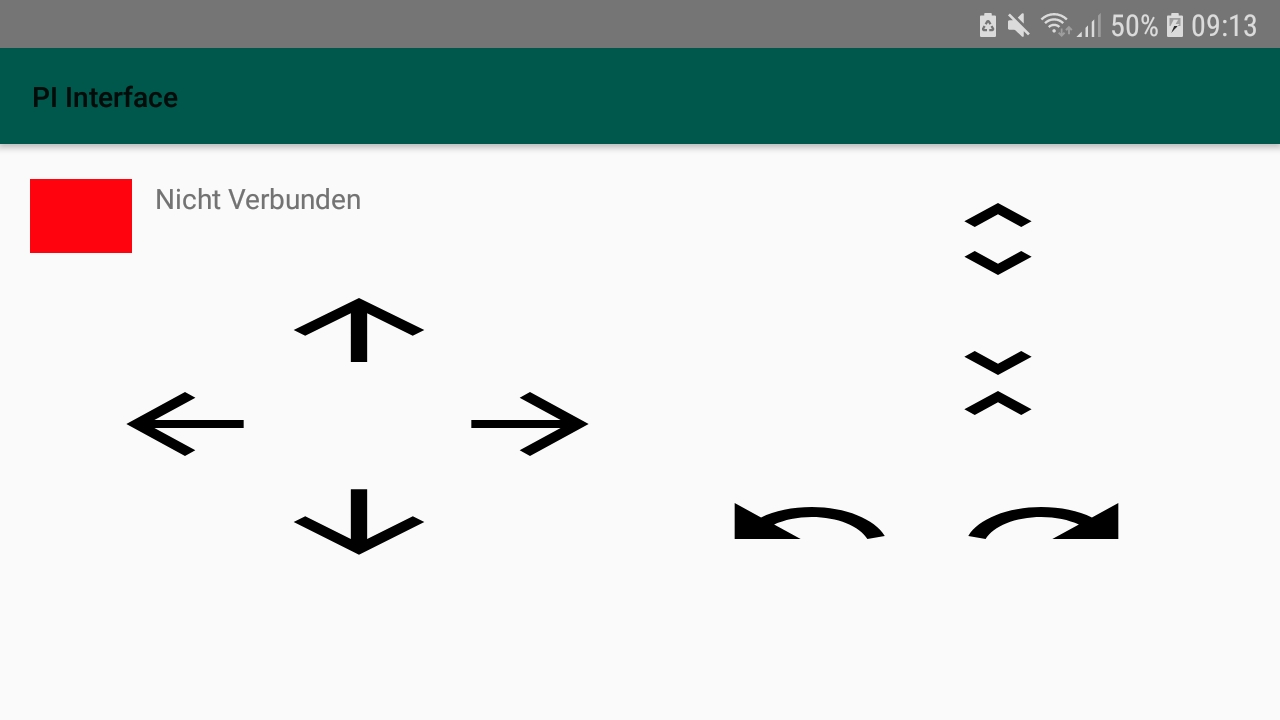
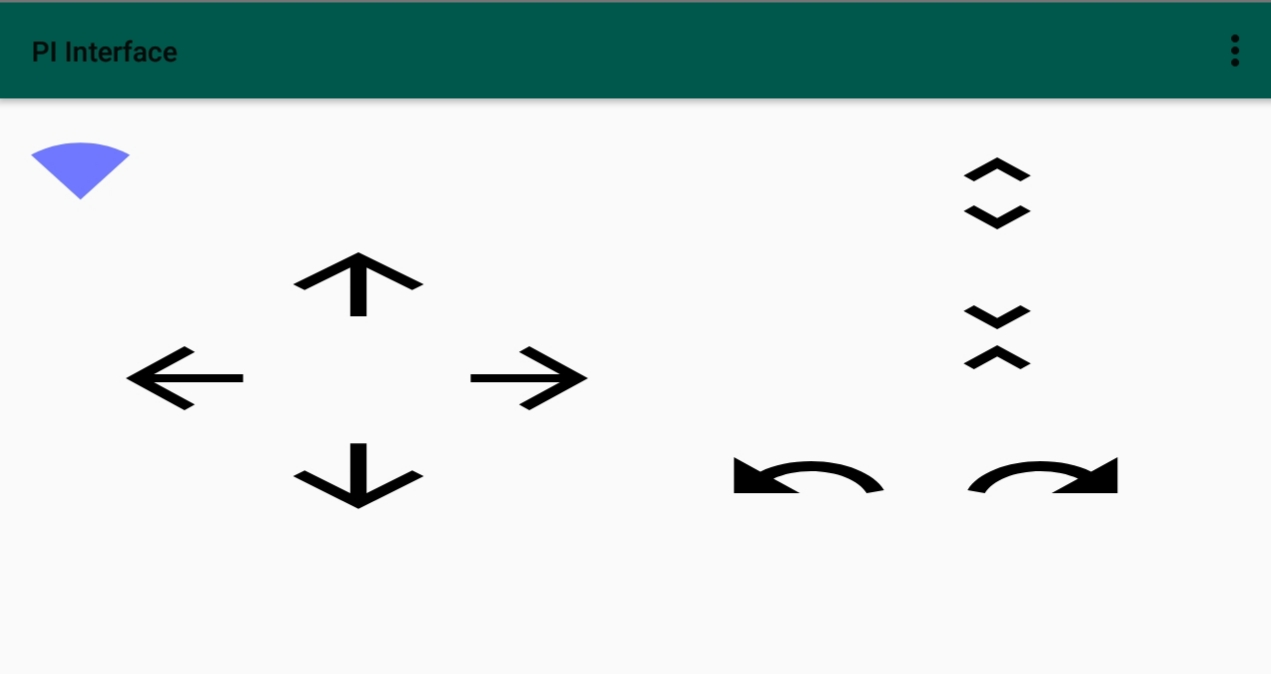
Gui Update
- Implementieren eines Wlan Image als Connection Status
- fixen des Leeren String -Bugs im Dialog Fragment

diff --git a/app/src/main/java/com/example/piinterface/MainActivity.java b/app/src/main/java/com/example/piinterface/MainActivity.java
@@ -6,6 +6,7 @@ import android.os.Bundle;
 import android.support.v7.app.AppCompatActivity;
 import android.view.Menu;
 import android.view.MenuInflater;
+import android.view.MenuItem;
 import android.view.View;
 import android.widget.ImageView;
 import android.widget.TextView;
@@ -39,9 +40,6 @@ public class MainActivity extends AppCompatActivity implements Settings_Dialog.S
     protected void onCreate(Bundle savedInstanceState) {
         super.onCreate(savedInstanceState);
         setContentView(R.layout.activity_main);
-        //ipadress = "192.168.178.40";
-        //portnumber = 5555;
-        connection = (TextView) findViewById(R.id.connection);
         connStat = (ImageView) findViewById(R.id.CONNSTST);
         toolbar = (android.support.v7.widget.Toolbar) findViewById(R.id.my_toolbar);
         setSupportActionBar(toolbar);
@@ -51,15 +49,17 @@ public class MainActivity extends AppCompatActivity implements Settings_Dialog.S
 
     @Override
     public boolean onCreateOptionsMenu(Menu menu) {
-       // MenuInflater inflater = getMenuInflater();
-        //inflater.inflate(R.menu.main_menu, menu);
+        MenuInflater inflater = getMenuInflater();
+        inflater.inflate(R.menu.main_menu, menu);
         return true;
     }
 
-    // Settings -> On Click Menu
-    public void Settings(View v){
+    @Override
+    public boolean onOptionsItemSelected(MenuItem item) {
         Settings_Dialog dialog = new Settings_Dialog();
         dialog.show(getSupportFragmentManager(), "My Dialog");
+
+        return super.onOptionsItemSelected(item);
     }
 //---------------------------------------------------------------------
 
@@ -67,8 +67,12 @@ public class MainActivity extends AppCompatActivity implements Settings_Dialog.S
     @Override
     public void applySettings(String ip, String port) {
     ipadress = ip;
-    portnumber = Integer.parseInt(port);
-
+    if (port == ""){
+        portnumber = 0;
+    }
+    else {
+        portnumber = Integer.parseInt(port);
+    }
     Save();
 
 }
@@ -80,13 +84,13 @@ public void Save(){
     sEditor.putString(IP_ADRESSE_KEY, String.valueOf(ipadress));
     sEditor.putInt(PORT_NUMBER_KEY, portnumber);
     sEditor.apply();
-    Toast.makeText(this,"Data Saved", Toast.LENGTH_SHORT).show();
+    Toast.makeText(this,"Data Saved " + " IP: " + ipadress + " | Port: "+ portnumber, Toast.LENGTH_SHORT).show();
 }
 public void Load(){
         SharedPreferences sharedPreferences = getSharedPreferences(SHARED_PREF, MODE_PRIVATE);
         ipadress = sharedPreferences.getString(IP_ADRESSE_KEY,"");
         portnumber = sharedPreferences.getInt(PORT_NUMBER_KEY, 0);
-        Toast.makeText(this, "ip "+ ipadress +" port: "+ portnumber, Toast.LENGTH_SHORT).show();
+        Toast.makeText(this, "ip: "+ ipadress +" port: "+ portnumber, Toast.LENGTH_SHORT).show();
 
 }
 // Verbindungsaufbau
@@ -100,15 +104,12 @@ public void Load(){
                         socket = new Socket(String.valueOf(ipadress), portnumber);
                         socket.setKeepAlive(true);
                         socketisAlive = true;
-                        connStat.setColorFilter(Color.GREEN);
-                        connection.setText("Verbunden");
-
+                        connStat.setBackgroundResource(R.drawable.ic_connected_24dp);
                         printWriter = new PrintWriter(socket.getOutputStream());
 
 
                     } catch (IOException io) {
-                        connStat.setColorFilter(Color.RED);
-                        connection.setText("Nicht Verbunden");
+                        connStat.setBackgroundResource(R.drawable.ic_disconnected_24dp);
                         socketisAlive= false;
                         io.printStackTrace();
                     }
@@ -119,8 +120,7 @@ public void Load(){
             try {
                 printWriter.close();
                 socket.close();
-                connStat.setColorFilter(Color.RED);
-                connection.setText("Nicht Verbunden");
+                connStat.setBackgroundResource(R.drawable.ic_disconnected_24dp);
                 socketisAlive = false;
 
             } catch (IOException e) {
@@ -174,12 +174,11 @@ public void Load(){
     @Override
     protected void onStop() {
         super.onStop();
-        // verbindungs abbau
+        // verbindungsabbau
         try {
             printWriter.close();
             socket.close();
-            connStat.setColorFilter(Color.RED);
-            connection.setText("Nicht Verbunden");
+            connStat.setBackgroundResource(R.drawable.ic_disconnected_24dp);
             socketisAlive = false;
 
 

diff --git a/app/src/main/java/com/example/piinterface/Settings_Dialog.java b/app/src/main/java/com/example/piinterface/Settings_Dialog.java
@@ -3,18 +3,26 @@ package com.example.piinterface;
 import android.app.Dialog;
 import android.content.Context;
 import android.content.DialogInterface;
+import android.content.SharedPreferences;
+import android.nfc.Tag;
 import android.os.Bundle;
 import android.support.v7.app.AlertDialog;
 import android.support.v7.app.AppCompatDialogFragment;
+import android.util.Log;
 import android.view.LayoutInflater;
 import android.view.View;
 import android.widget.EditText;
+import android.widget.Toast;
 
 
 public class Settings_Dialog extends AppCompatDialogFragment {
     private EditText ipdialog;
     private EditText portdialog;
     private Settings_Dialog_Listener listener;
+
+    private final static String SHARED_PREF = "Shared Prefs";
+    private final static String IP_ADRESSE_KEY = "ip_adresse_key";
+    private final static String PORT_NUMBER_KEY = "port_number_key";
     @Override
     public Dialog onCreateDialog(Bundle savedInstanceState) {
         AlertDialog.Builder builder = new AlertDialog.Builder(getActivity());
@@ -27,6 +35,9 @@ public class Settings_Dialog extends AppCompatDialogFragment {
                     public void onClick(DialogInterface dialog, int which) {
                         String ipshipper = ipdialog.getText().toString();
                         String portshipper = portdialog.getText().toString();
+                        if (portshipper.isEmpty()){
+                            portshipper = "0";
+                        }
                         listener.applySettings(ipshipper,portshipper);
                     }
                 });
